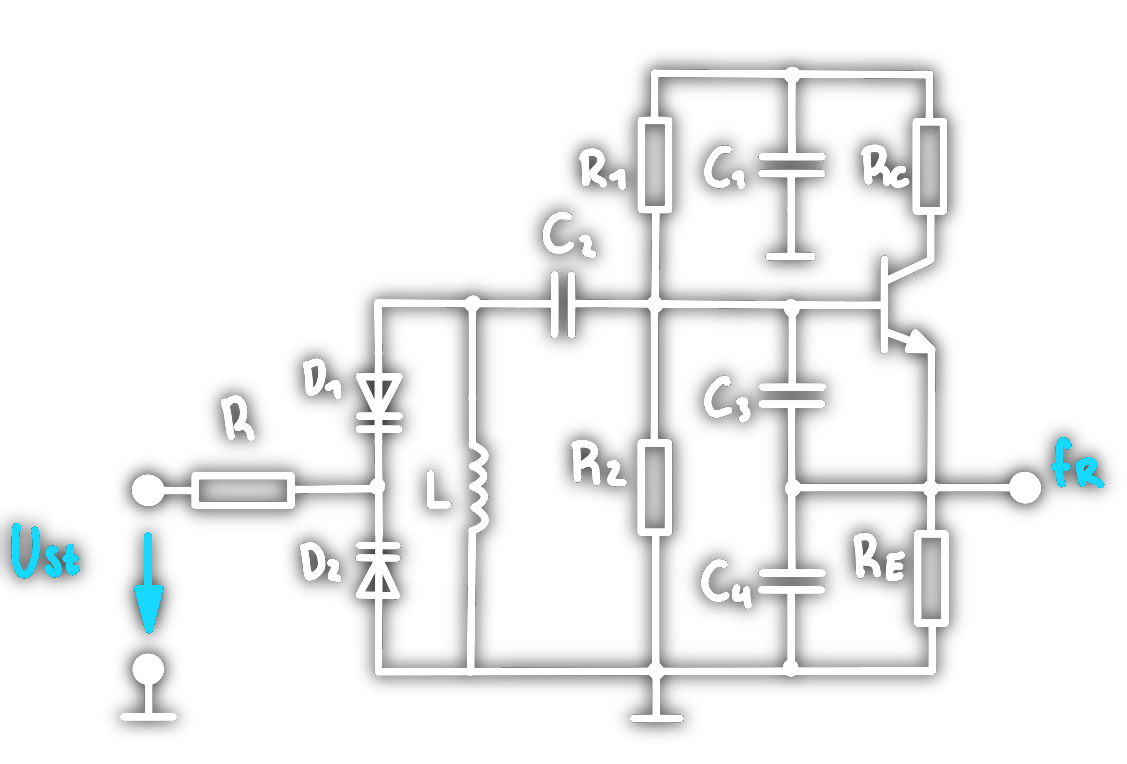
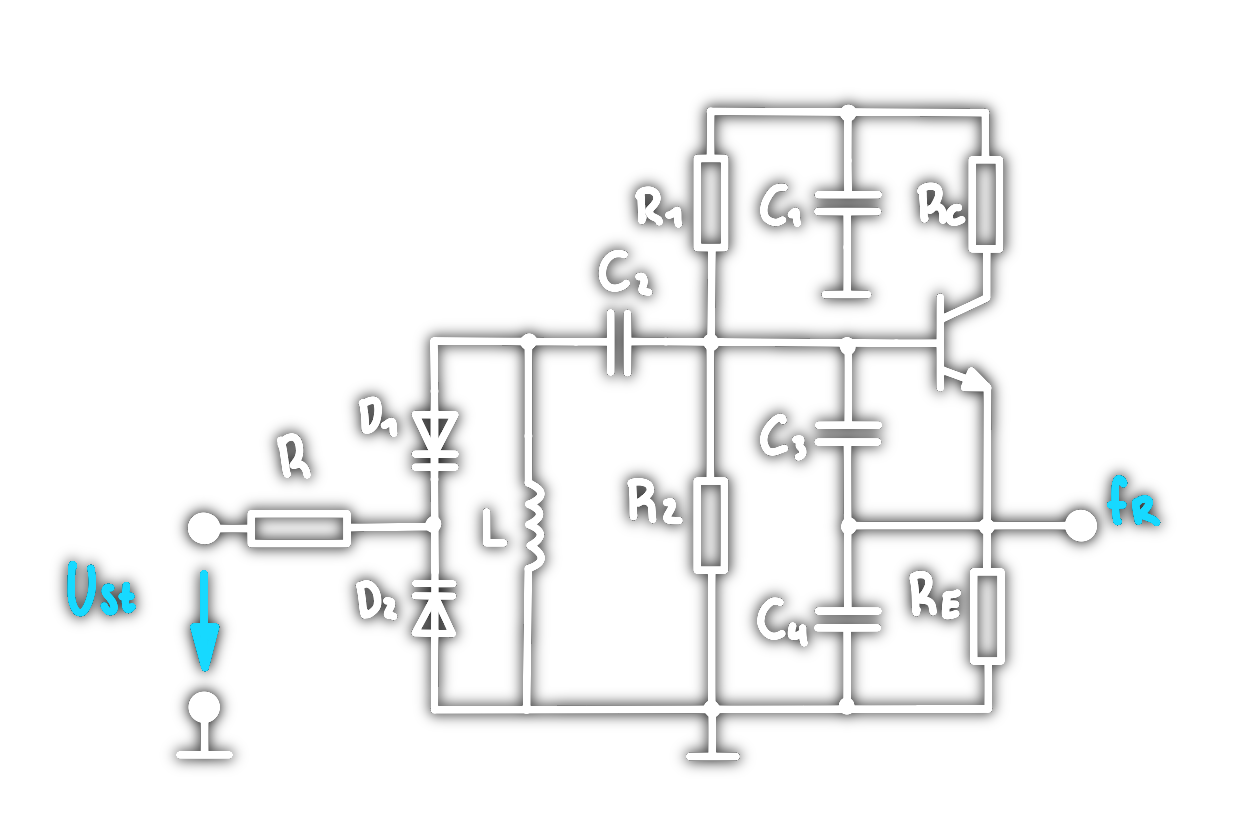
vault backup: 2023-01-31 14:57:23

Changed region(s): [[0.0, 0.0602, 0.9938, 0.9634]]

diff --git a/hwe/Phase Locked Loop.md b/hwe/Phase Locked Loop.md
@@ -11,7 +11,7 @@ created: 19th January 2023
 
 ## Phasedetector
 ### Phase Frequency Detector (PFD)
-Eine sehr populäre
+Eine sehr populäre Implementierung für den Phasen Detektor ist der Phase-Frequency-Detector
 ## Loop Filter
 Das rechteckförmige Ausgangssignal des PFD besteht aus einer vielzahl von Frequenzen.
 Für den Regelkreis interessant ist jedoch nur sein DC-Anteil. Die übrigen Frequenzanteile werden durch den Loop-Filter eliminiert. Der Filter hat daher iene Tiefpass-Charakteristik.
@@ -22,7 +22,7 @@ In PLL-Schaltungen kommen für die Oszillatoren hauptsächlich [[LC Oszillatoren
 Beim [[LC Oszillatoren|LC-Oszillator]] wird ein [[Schwingkreise|Schwingkreis]], bestehend aus einer [[Induktivitäten|Induktivität]] und einer Kapazität verwendet. Mittels Kapazitätsdioden, ist die Resonanzfrequenz einstellbar.
 
 >[!note] [[Colpitts Oszillator|Colpitts]]-Ostillator in [[Emitterfolger]]
-> ![[VCO_KapD.png|500]]
+> ![[VCO_KapD.png|675]]
 
 # Tags
 

diff --git a/hwe/Oszillatoren/Ringoszillator.md b/hwe/Oszillatoren/Ringoszillator.md
@@ -21,6 +21,6 @@ Ein Ringoszillator besteht aus einer in Reihe geschaleteten Kette von Invertern.
 Die delay time einer einzalnen Inverterstufe, lässt sich auf kapazitive/resistive weise und durch beeinflusses des Querstromes beim Schaltvorgang des Gatters beeinflussen. 
 
 ## Schaltung
-![[PNG-Bild 1.png]]
+![[ring-osz.png]]
 
 # Tags
